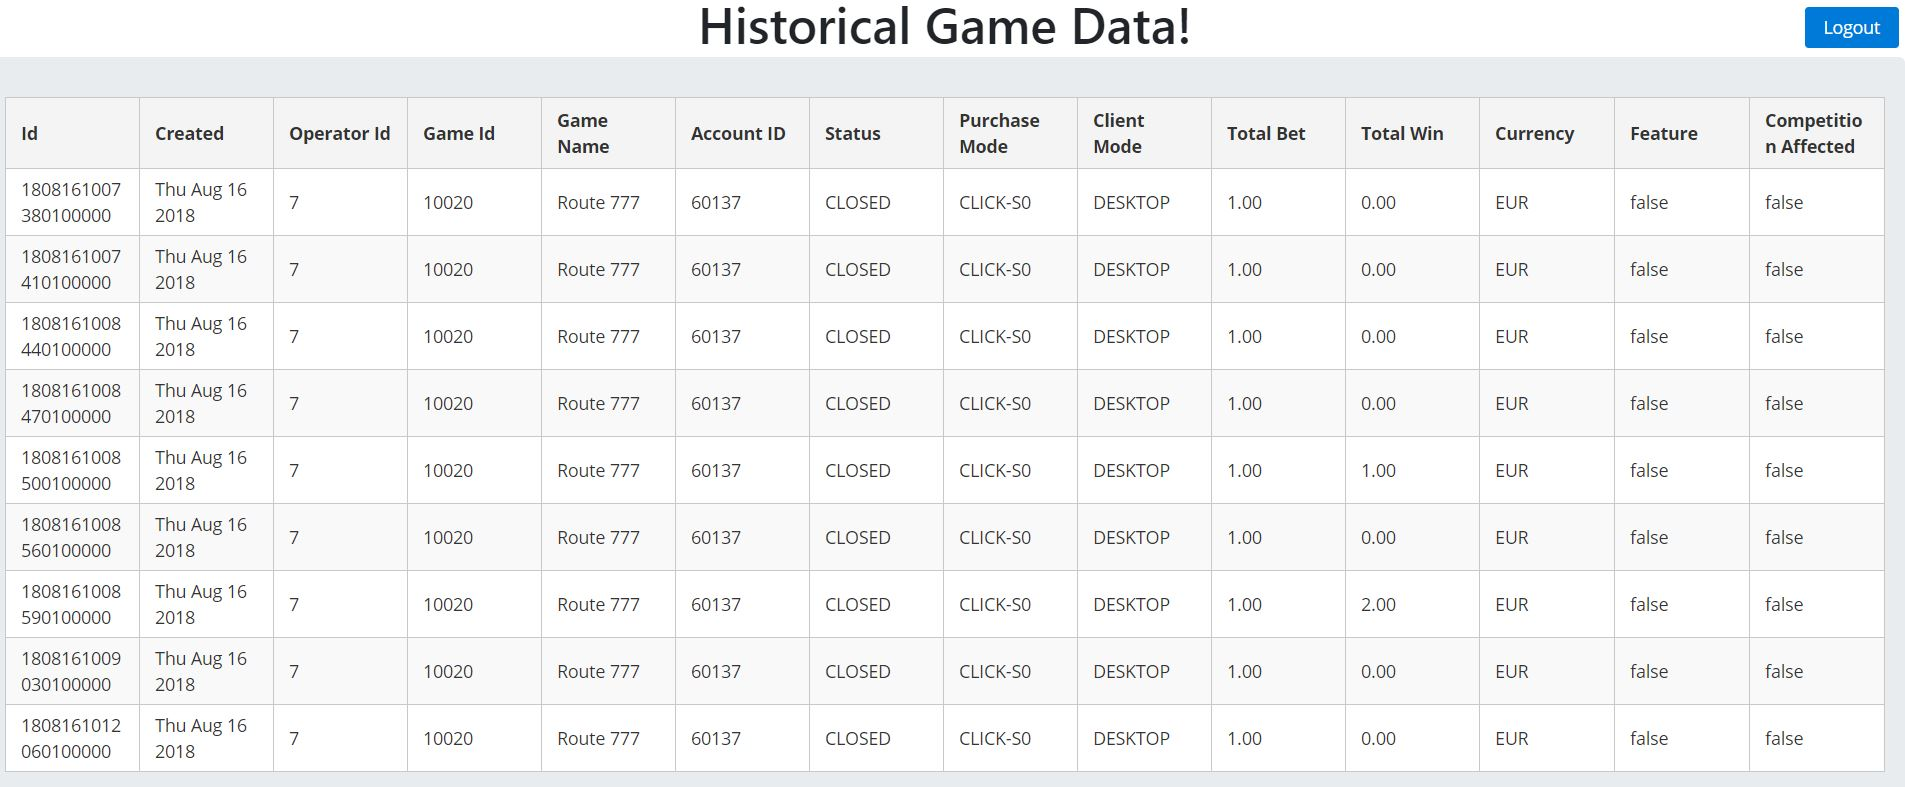
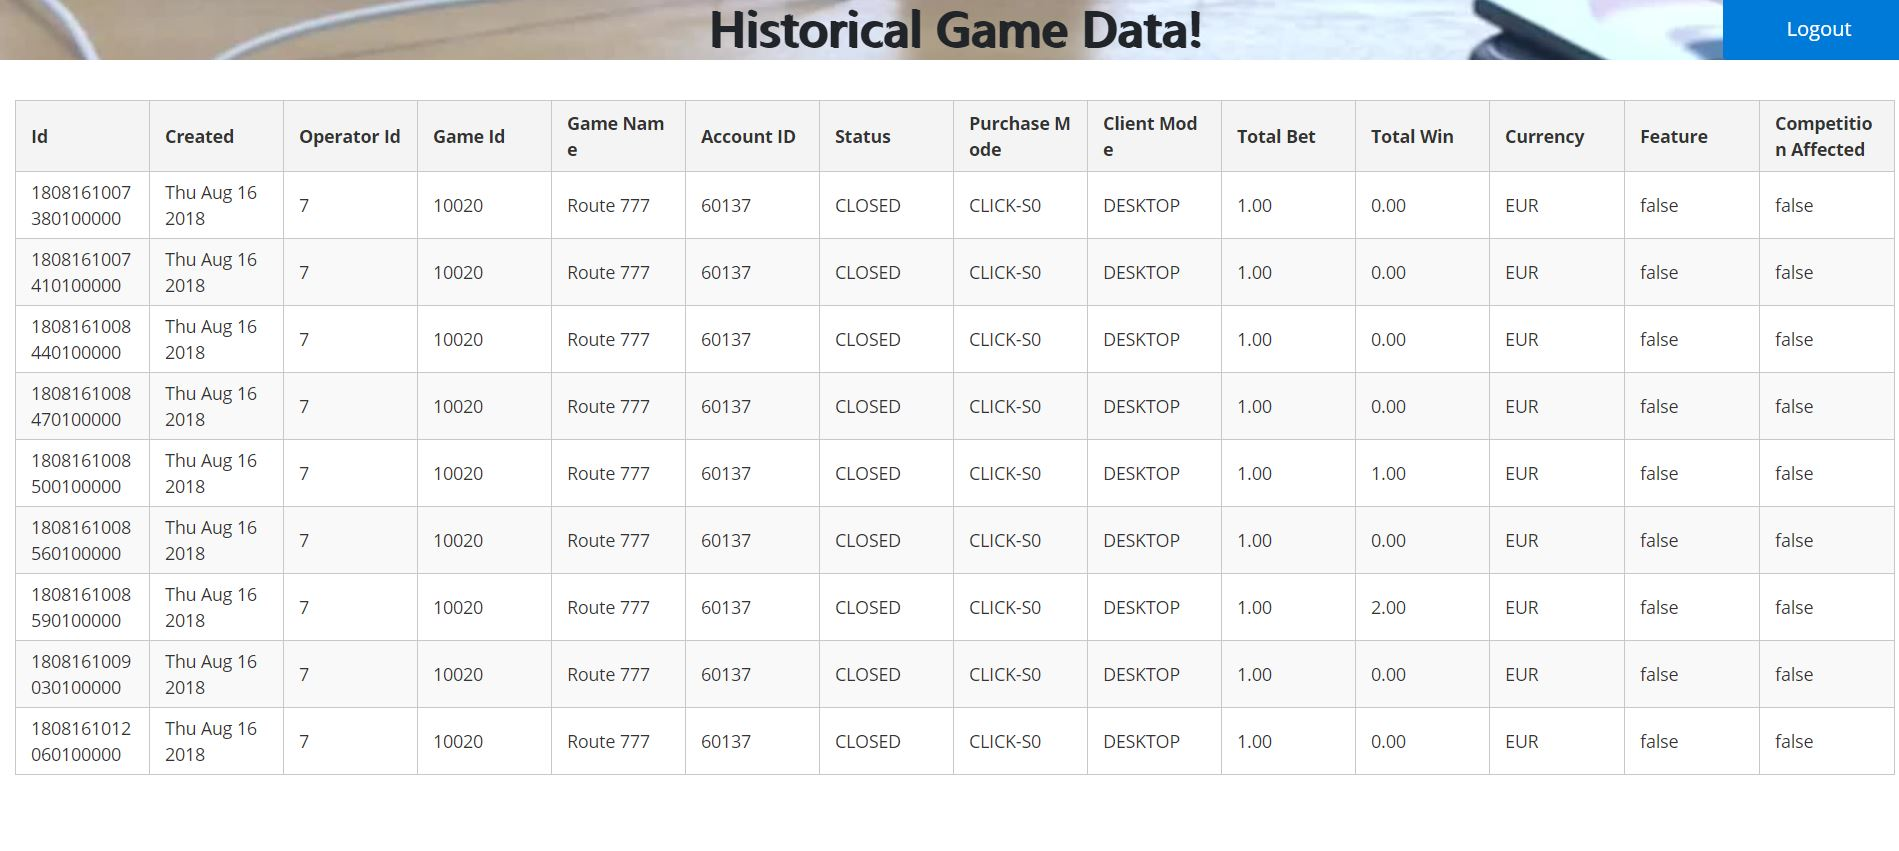
changing images

diff --git a/src/app/components/home/home.component.scss b/src/app/components/home/home.component.scss
@@ -4,17 +4,24 @@ p-table {
 
 button {
     position: absolute;
-    right: 5px;
-    top: 10px;
+    right: 0px;
+    top: 0px;
+    height: 50px;
+    width: 10%;
+    z-index: 2;
+    font-size: 1em;
 }
 
 .contentsArea {
     position: absolute;
-    top: 50px;
+    padding-top: 5em;
     bottom: 0px;
     overflow: auto;
     padding: 2rem 1rem;
     margin-bottom: 2rem;
-    background-color: #e9ecef;
+    background-color: white;
     border-radius: .3rem;
+    height: 100vh;
+    z-index: 1;
+    top: 50px;
 }

diff --git a/src/styles.scss b/src/styles.scss
@@ -3,9 +3,20 @@ html,
 body {
     height: 100vh;
     overflow: hidden;
+    background-image: url("./assets/loginBG.jpg")
 }
 
 h1 {
     margin: 0 auto;
     text-align: center;
+    text-shadow: 2px 1px;
+    z-index: 300;
+}
+
+@media (min-width: 800px) {
+    .jumbotron {
+        width: 50% !important;
+        position: relative !important;
+        margin: 0 auto;
+    }
 }
